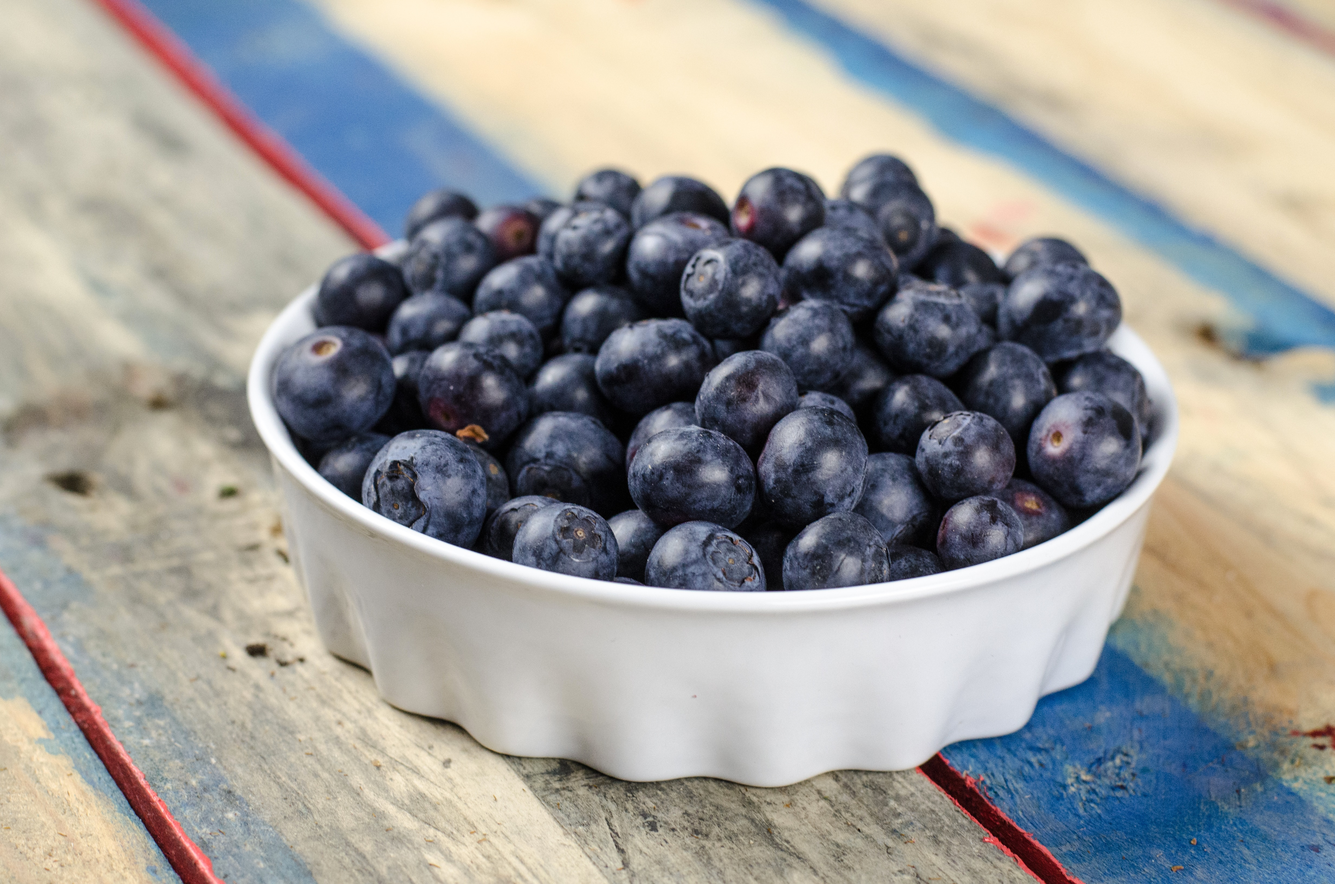
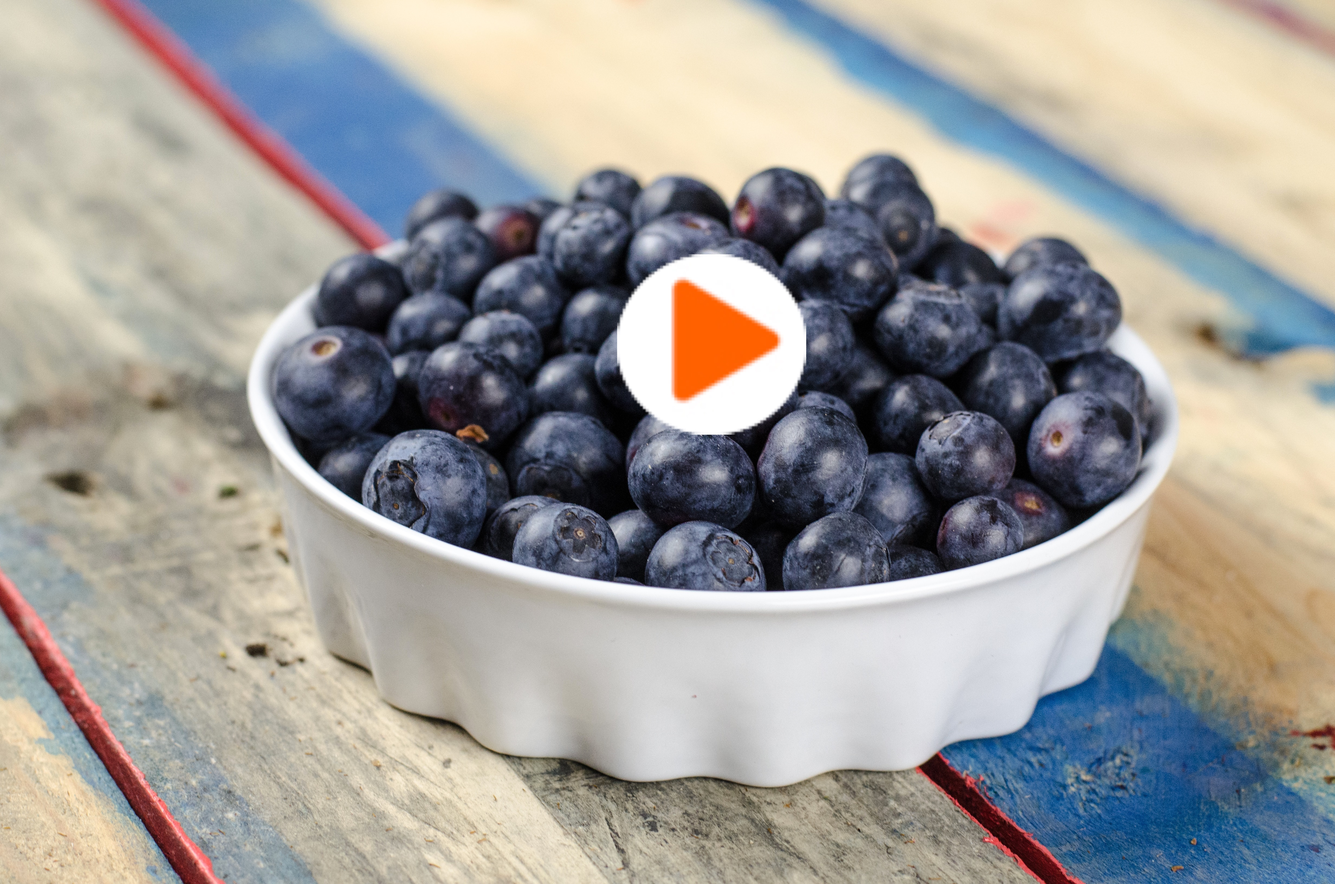
minor changes

Changed region(s): [[0.4375, 0.2812, 0.625, 0.5]]

diff --git a/src/home.js b/src/home.js
@@ -265,7 +265,7 @@ const Home = () => {
             <div class="row" id="player">
                 <div class="col-xl-6 col-lg-6 col-md-6 col-sm-12">
                     <div class="videoWrapper">
-                        <div><img src="images/snack_wall.jpeg" id="introphoto1" alt="video 1"/></div>
+                        <div><img src="images/snack1.jpg" id="introphoto1" alt="video 1"/></div>
                         <div class="hidden" id="video1"></div>
                     </div>
                 </div>
